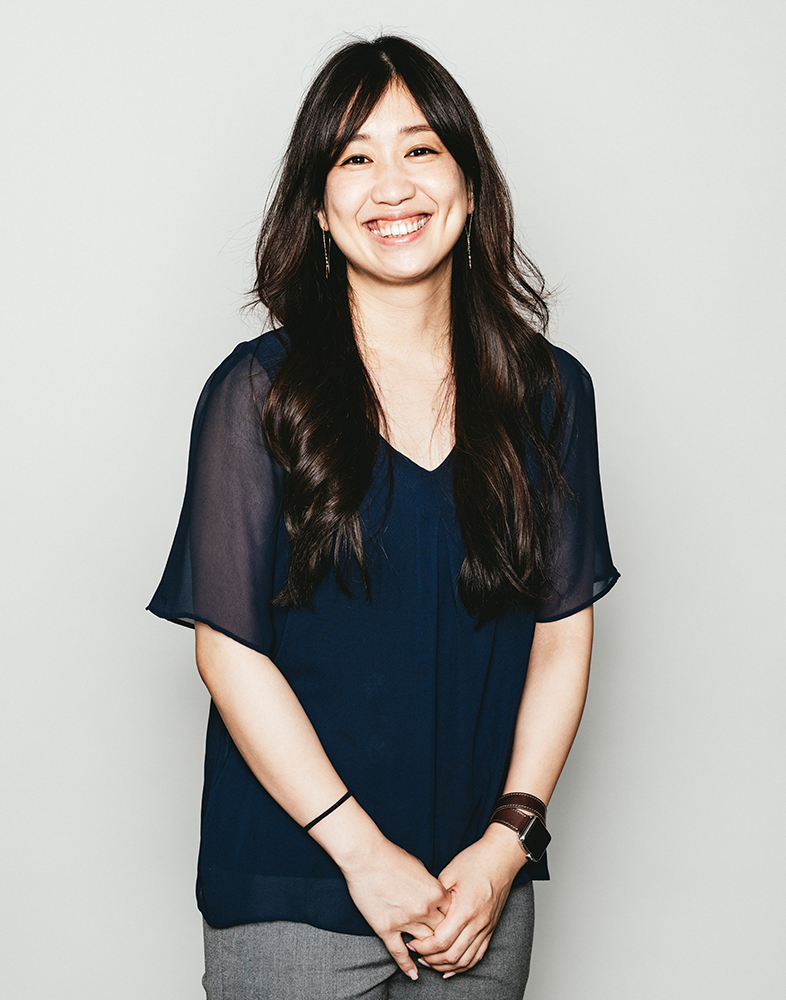
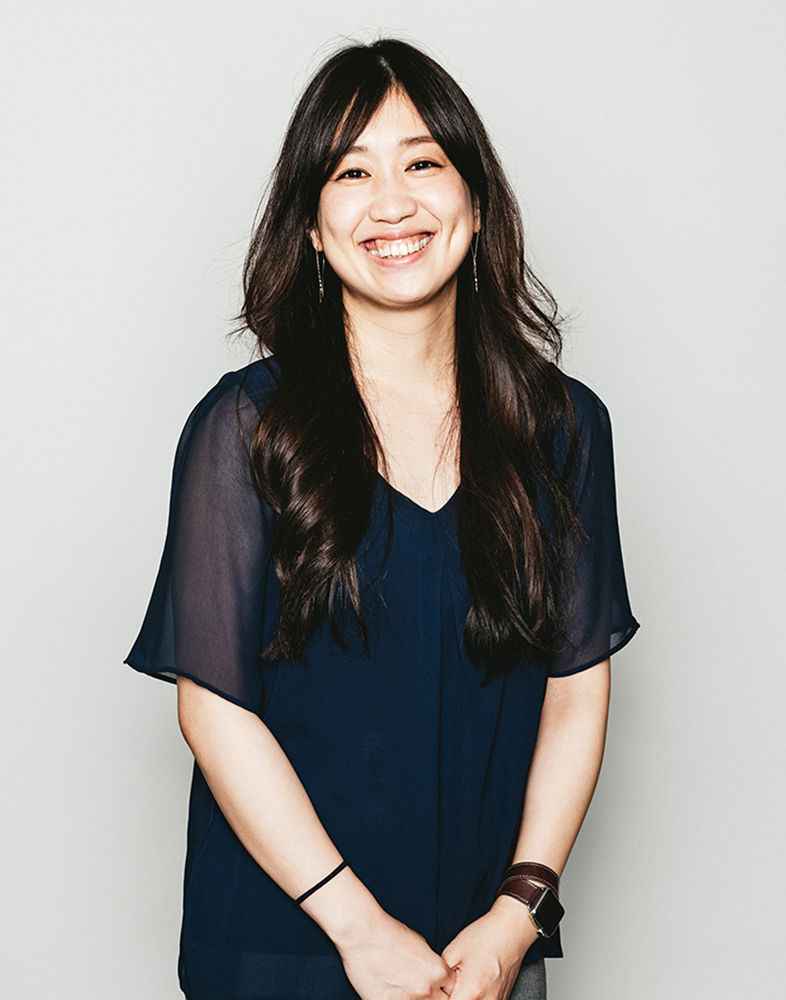
修正

Changed region(s): [[0.1527, 0.031, 0.8244, 1.0]]

diff --git a/_src/app/about/message/index.html b/_src/app/about/message/index.html
@@ -122,7 +122,8 @@
             </p>
           </div>
           <div class="message__body__parts__image">
-            <img src="/assets/images/about/message/img_message_group01.jpg">
+            <img src="/assets/images/about/message/img_message_group01_pc.jpg" class="show-for-large">
+            <img src="/assets/images/about/message/img_message_group01.jpg" class="show-for-small">
           </div>
         </div><!-- /.message__body__parts -->
 
